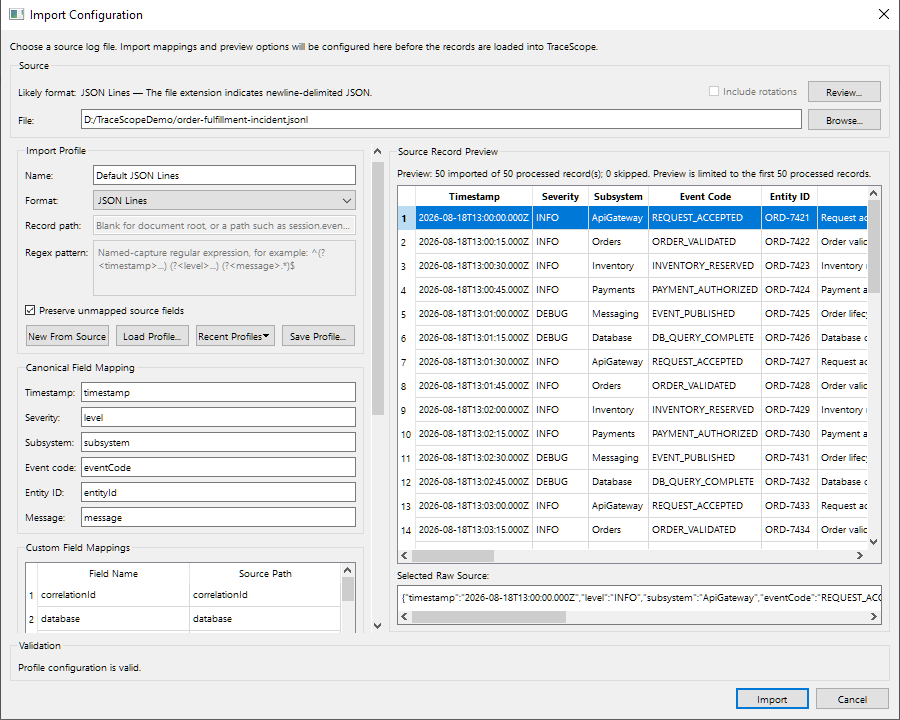
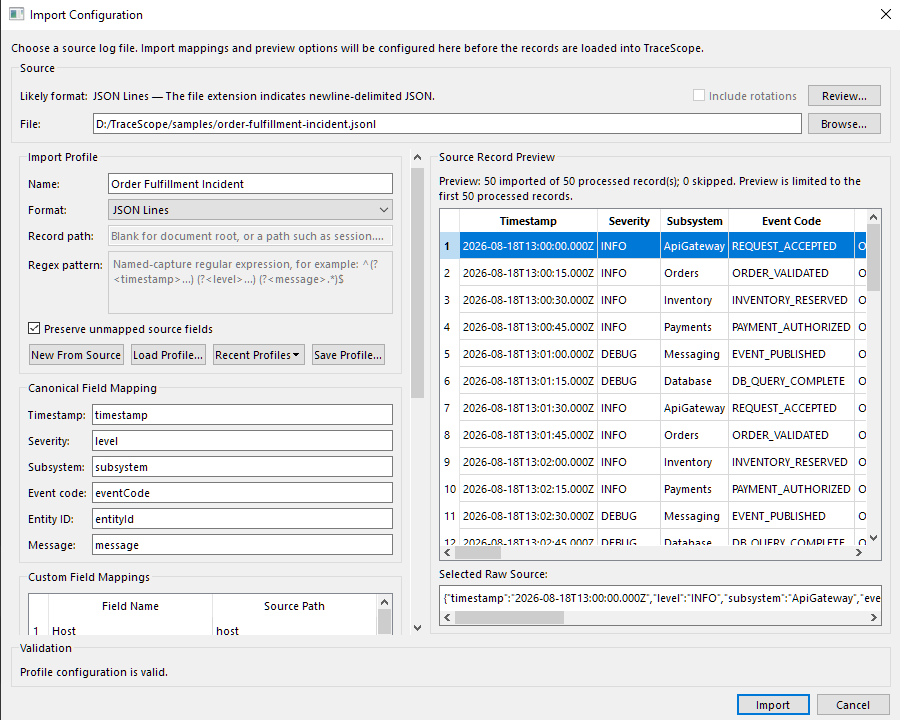
Add media to comparing sessions guide and update README GIF

Changed region(s): [[0.0, 0.0, 1.0, 1.0], [0.7778, 0.1222, 0.9644, 0.1833], [0.0, 0.0, 0.0311, 0.0306]]

diff --git a/docs/comparing-sessions.md b/docs/comparing-sessions.md
@@ -2,6 +2,8 @@
 
 A log file can reveal what happened during one run. **Session Comparison** helps you identify how two recorded runs differ—for example, a known-good engineering capture and a later degraded capture. TraceScope compares the normalized records in both investigations and presents differences in event codes, severity, elevated activity, selected source-specific attributes, and optionally detected bursts.
 
+![Comparing investigation sessions](media/comparing-sessions-overview.gif)
+
 This guide uses the fictional **Field Gateway Support Sessions** supplied with TraceScope. The two captures represent a known-good run and a degraded run of the same gateway. They are deliberately matched for a reproducible exercise, but a difference between two logs is an investigative observation, **not proof of what caused a failure**.
 
 **Having trouble comparing sessions?** [Jump straight to Troubleshooting](#troubleshooting).
@@ -42,10 +44,36 @@ The samples use key-value/logfmt records. Their matching profile maps timestamps
 
 Both sessions must be open in the **same TraceScope workspace** before you create a comparison.
 
-1. Choose **File > Open Log File...**, select `field-gateway-known-good.log`, and load `field-gateway-support-session-profile.json` using **Load Profile...** in **Import Configuration**.
-2. Confirm that the selected format is **Key-Value / logfmt**, inspect the preview, and select **Import**.
+1. Choose **File > Open Log File...**,
+
+    ![Open log file](screenshots/comparing-sessions-open-log-file.png)
+
+    select `field-gateway-known-good.log`,
+    
+    ![Select the log](screenshots/comparing-sessions-known-good.png)
+    
+    and load `field-gateway-support-session-profile.json`using **Load Profile...** in **Import Configuration**.
+
+    ![Load profile](screenshots/comparing-sessions-load-profile.png)
+2. Confirm that the selected format is **Key-Value / logfmt**,
+
+    ![Confirm the format](screenshots/comparing-sessions-format.png)
+
+    inspect the preview,
+    
+    ![Inspect the preview](screenshots/comparing-sessions-preview.png)
+    
+    and select **Import**.
+
+    ![Select import](screenshots/comparing-sessions-import.png)
 3. Repeat those steps for `field-gateway-degraded.log`, using **the same profile**.
-4. Confirm that both investigation tabs are present. Leave the degraded investigation active for the next step.
+
+    ![Repeat for the degraded run log](screenshots/comparing-sessions-degraded.png)
+4. Confirm that both investigation tabs are present.
+
+    ![Confirm both are present](screenshots/comparing-sessions-both-tabs.png)
+
+    Leave the degraded investigation active for the next step.
 
 If you are using the packaged Windows release, look under its included `samples/` directory. For the Linux AppImage, obtain the separate static samples archive or use the repository's sample files, as explained in [Getting Started](getting-started.md#2-find-the-example-log-and-its-profile).
 
@@ -55,28 +83,56 @@ You can inspect and filter either investigation before proceeding. **By default*
 
 With the degraded investigation active:
 
-1. Choose **Investigation > Compare Sessions...**. The command is available when at least two investigation sessions are open. You can also right-click an investigation's workspace tab and choose **Create Comparison...**.
+1. Choose **Investigation > Compare Sessions...**. 
+
+    ![Compare sessions](screenshots/comparing-sessions-compare.png)
+
+    The command is available when at least two investigation sessions are open. You can also right-click an investigation's workspace tab and choose **Create Comparison...**.
+
+    ![Compare sessions](screenshots/comparing-sessions-compare-2.png)
 2. In **Compare Investigation Sessions**, set **Baseline** to `field-gateway-known-good.log` and **Comparison** to `field-gateway-degraded.log`.
+
+    ![Set baseline and comparison](screenshots/comparing-sessions-baseline.png)
 3. Read the orientation above the selectors: every displayed delta is **Comparison − Baseline**. Use **Swap Baseline / Comparison** if the sessions are reversed.
-4. Leave both **Use this session's active time range** checkboxes unchecked for the first walkthrough, so the known-good and degraded captures are compared in full. See [Optionally compare selected time ranges](#optionally-compare-selected-time-ranges) when you want to focus on particular periods instead.
+
+    ![Swap baseline and comparison](screenshots/comparing-sessions-swap.png)
+4. Leave both **Use this session's active time range** checkboxes unchecked for the first walkthrough, so the known-good and degraded captures are compared in full.
+
+    ![Unchecked active time ranges](screenshots/comparing-sessions-active-time-range.png)
+
+    See [Optionally compare selected time ranges](#optionally-compare-selected-time-ranges) when you want to focus on particular periods instead.
 5. Review **Burst Comparison**, which is enabled by default, and decide whether to keep it for this exercise. You can leave its suggested settings as they are for your first comparison.
+
+    ![Burst comparison settings](screenshots/comparing-sessions-burst-comparison.png)
 6. Select **OK** to create a new comparison document.
+
+    ![Confirm creation](screenshots/comparing-sessions-confirm.png)
 
 TraceScope prevents you from selecting the same investigation for both roles. The active session normally defaults to **Comparison**, while another open session is suggested as **Baseline**. Right-clicking a different session's tab can also suggest that clicked session as the baseline; always verify both selectors before continuing.
 
 The comparison appears as its **own workspace document**, with a compact title indicating `Baseline → Comparison`. It does not replace or merge the original investigations.
 
+![Comparison document](screenshots/comparing-sessions-document.png)
+
 ### Optionally compare selected time ranges
 
 You can compare different periods of two investigations without applying their other temporary Event Table filters to the comparison. Configure the desired **Time Range** filter separately in each source investigation *before* opening **Compare Sessions...**, then use the independent **Use this session's active time range** checkbox under Baseline, Comparison, or both.
 
-Each checkbox starts unchecked. It becomes available only when its selected investigation has at least one valid active time boundary and that boundary selects one or more records. Checked boundaries are inclusive: a start-only or end-only scope is valid, as is a bounded start–end interval. The selected records come from that session's **complete currently admitted population**, ignoring every other active filter. Records without usable timestamps cannot belong to a time-scoped selection.
+![Set time range filter](screenshots/comparing-sessions-set-time-range.png)
+
+Each checkbox starts unchecked. It becomes available only when its selected investigation has at least one valid active time boundary and that boundary selects one or more records. Checked boundaries are inclusive: a start-only or end-only scope is valid, as is a bounded start–end interval.
+
+![Checked active time ranges](screenshots/comparing-sessions-active-time-range-2.png)
+
+The selected records come from that session's **complete currently admitted population**, ignoring every other active filter. Records without usable timestamps cannot belong to a time-scoped selection.
 
 You can scope just one side and leave the other as a complete session. The resulting comparison permanently captures each side's scope and selected records; it is not a live connection to the source investigations' evolving filters. A time range selecting no records cannot be used to create a comparison. If you later want different boundaries or newly admitted live evidence, create another comparison.
 
 ### Decide whether to include burst comparison
 
 The **Burst Comparison** section is optional. It applies the **same explicit settings to both sessions**, rather than allowing each run's separate automatic timing to produce measurements on different scales.
+
+![Burst comparison settings](screenshots/comparing-sessions-burst-comparison.png)
 
 The setup dialog recommends shared **Window** and **Merge gap** values from the records selected for each side. If a scoped population contains too little timing information for an adaptive recommendation, that side falls back to its complete session's cadence; if that is also too sparse, the existing static recommendation applies. The dialog uses the larger of the two resulting recommendations for each shared setting. You can adjust those values and the **WARN/ERROR/CRITICAL events** and **ERROR/CRITICAL events** thresholds before creating the comparison. **Actual burst analysis always uses the selected comparison populations and the same explicit settings on both sides**; the fallback affects recommendations only.
 
@@ -86,11 +142,15 @@ For this exercise, leaving the default burst option enabled provides another per
 
 Start with **Comparison Sources** at the top of the new document. It identifies each source and its import context, reports whether that side used the **complete imported session** or a **captured active time range**, and shows any captured start and end boundaries (including unbounded boundaries) and the number of records actually compared. These details matter especially when the two sides have different scopes.
 
+![Comparison sources](screenshots/comparing-sessions-sources.png)
+
 Immediately below, the document reiterates two important rules: all deltas are **Comparison − Baseline**, and the result is an **immutable snapshot** of the selected record populations as they existed when you created it.
 
 ### Key Differences: look for changes worth investigating
 
 The **Key Differences** section focuses on differences rather than repeating every unchanged value. Its tables show baseline counts, comparison counts, and directional deltas where appropriate. Larger absolute differences generally appear earlier within the applicable result groups, but the presentation order is not a root-cause ranking.
+
+![Key differences section](media/comparing-sessions-key-differences.gif)
 
 Read the available subsections together:
 
@@ -117,7 +177,11 @@ For this exercise, the profile's **Firmware** field provides useful categorical 
 
 ## 5. Interpret Burst Comparison
 
-If you enabled burst analysis in the setup dialog, scroll to **Burst Comparison**. The document displays the shared configuration used for both sessions and, when the data supports comparison, includes:
+If you enabled burst analysis in the setup dialog, scroll to **Burst Comparison**.
+
+![Burst comparison section](screenshots/comparing-sessions-burst-comparison-2.png)
+
+The document displays the shared configuration used for both sessions and, when the data supports comparison, includes:
 
 - **Detected Bursts** and **Elevated Records in Bursts**.
 - **Peak Burst Elevated Count** and **Longest Burst**.
@@ -131,7 +195,11 @@ Unlike the **Auto** timing option in an individual investigation's Analytics tab
 
 ## 6. Use Session Context to keep the differences in perspective
 
-The **Session Context** table includes **Total Records**, **Duration**, and **Observed Records / Minute**, with directional deltas where they can be meaningfully calculated. When at least one side has a valid, bounded time range with a positive duration, it also shows **Window-Average Records / Minute**.
+The **Session Context** table includes **Total Records**, **Duration**, and **Observed Records / Minute**, with directional deltas where they can be meaningfully calculated.
+
+![Session context section](screenshots/comparing-sessions-session-context.png)
+
+When at least one side has a valid, bounded time range with a positive duration, it also shows **Window-Average Records / Minute**.
 
 **Duration** and **Observed Records / Minute** use the span between the first and last usable timestamps **among the selected records**. The observed rate divides the number of timestamped records by that span; it is unavailable without a positive-duration interval. By contrast, a **window-average rate** divides the selected timestamped-record count by the entire explicitly captured start–end interval, including quiet periods before the first or after the last selected event. Start-only, end-only, and zero-duration scopes do not have a finite window-average rate. A dash marks an unavailable side, and a window-average delta is displayed only when **both** sides have qualifying bounded windows. An unscoped complete session does not acquire a window-average rate merely because its records have first and last timestamps.
 
@@ -161,11 +229,19 @@ This is intentional: an existing result must keep its original meaning, includin
 
 ## 8. Save or share the comparison
 
-Choose **File > Save Workspace** to preserve the open investigations **and** comparison documents in a `.tsw` workspace. The saved workspace also has a companion `<workspace-name>.sessions/` folder holding the investigations' durable evidence snapshots. Keep the `.tsw` file and its matching folder together when moving or backing up your work; see [Saving and Restoring](saving-and-restoring.md).
+Choose **File > Save Workspace** to preserve the open investigations **and** comparison documents in a `.tsw` workspace.
+
+![Save workspace](screenshots/comparing-sessions-save-workspace.png)
+
+The saved workspace also has a companion `<workspace-name>.sessions/` folder holding the investigations' durable evidence snapshots. Keep the `.tsw` file and its matching folder together when moving or backing up your work; see [Saving and Restoring](saving-and-restoring.md).
 
 A saved comparison contains an independent point-in-time result, including the original selected populations' analysis and any independently captured time boundaries. It can still be restored as part of the workspace even if one of its original investigations cannot be reopened and you choose to skip that session during missing-source recovery. A saved comparison is not a substitute for keeping the original source evidence when you need to inspect individual events again.
 
-For an offline handoff that recipients can read **without TraceScope**, you can create a self-contained HTML report and include the comparison among its selected documents. A report is another fixed snapshot—not a live connection to either investigation or to the saved comparison document. The separate [Reporting and Exporting](reporting-and-export.md) guide covers report options and the distinctions among reports, findings CSV, filtered-record CSV, and saved workspaces.
+For an offline handoff that recipients can read **without TraceScope**, you can create a self-contained HTML report and include the comparison among its selected documents.
+
+![HTML report](screenshots/comparing-sessions-html-report.png)
+
+A report is another fixed snapshot—not a live connection to either investigation or to the saved comparison document. The separate [Reporting and Exporting](reporting-and-export.md) guide covers report options and the distinctions among reports, findings CSV, filtered-record CSV, and saved workspaces.
 
 ## Troubleshooting
 

diff --git a/README.md b/README.md
@@ -54,7 +54,7 @@ You can compare the complete evidence currently admitted to each investigation o
 
 Each comparison captures the selected populations and results at the moment you create it. You can continue filtering, following, or otherwise working in the source investigations without changing that saved comparison, then return to the original investigations when a difference gives you something worth examining more closely.
 
-![TraceScope investigation comparison](docs/screenshots/readme-comparison.png)
+![TraceScope investigation comparison](docs/media/comparing-sessions-overview.gif)
 
 [Comparing Sessions](docs/comparing-sessions.md)
 
